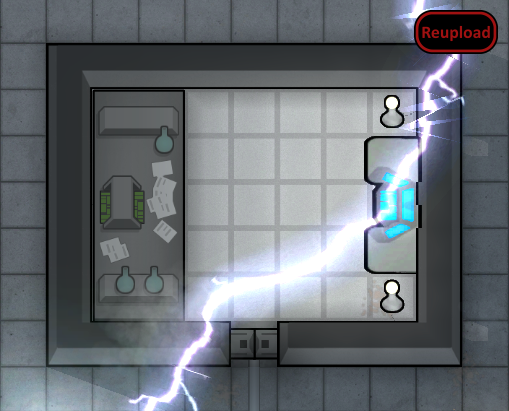
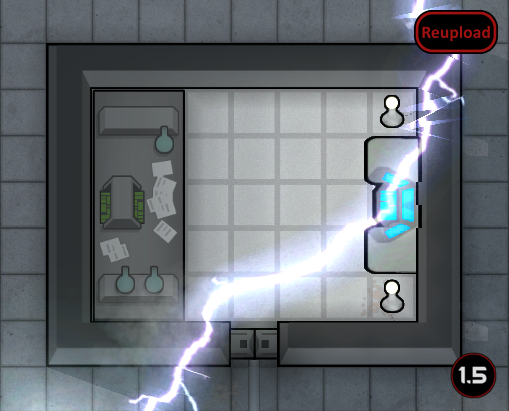
Mod updated for 1.5 and passed autotests

Changed region(s): [[0.8841, 0.8467, 0.9725, 0.9927]]

diff --git a/Source/BCS/BCS_WeatherMachine.cs b/Source/BCS/BCS_WeatherMachine.cs
@@ -16,7 +16,7 @@ public class BCS_WeatherMachine : Building
 
     public override void Tick()
     {
-        if (Find.TickManager.TicksGame % 2500 != 0 || _Power == null || !_Power.PowerOn)
+        if (Find.TickManager.TicksGame % 2500 != 0 || _Power is not { PowerOn: true })
         {
             return;
         }

diff --git a/README.md b/README.md
@@ -26,11 +26,13 @@ Through the use of complex algorithms, this device is able to hack into defunct 
 
 -  See if the the error persists if you just have this mod and its requirements active.
 -  If not, try adding your other mods until it happens again.
--  Post your error-log using https://steamcommunity.com/workshop/filedetails/?id=818773962]HugsLib and command Ctrl+F12
+-  Post your error-log using https://steamcommunity.com/workshop/filedetails/?id=818773962]HugsLib or the standalone https://steamcommunity.com/sharedfiles/filedetails/?id=2873415404]Uploader and command Ctrl+F12
 -  For best support, please use the Discord-channel for error-reporting.
 -  Do not report errors by making a discussion-thread, I get no notification of that.
 -  If you have the solution for a problem, please post it to the GitHub repository.
+-  Use https://github.com/RimSort/RimSort/releases/latest]RimSort to sort your mods
 
 
 
+https://steamcommunity.com/sharedfiles/filedetails/changelog/2584797720]![Image](https://img.shields.io/github/v/release/emipa606/WeatherControlDevice?label=latest%20version&style=plastic&color=9f1111&labelColor=black)
 
